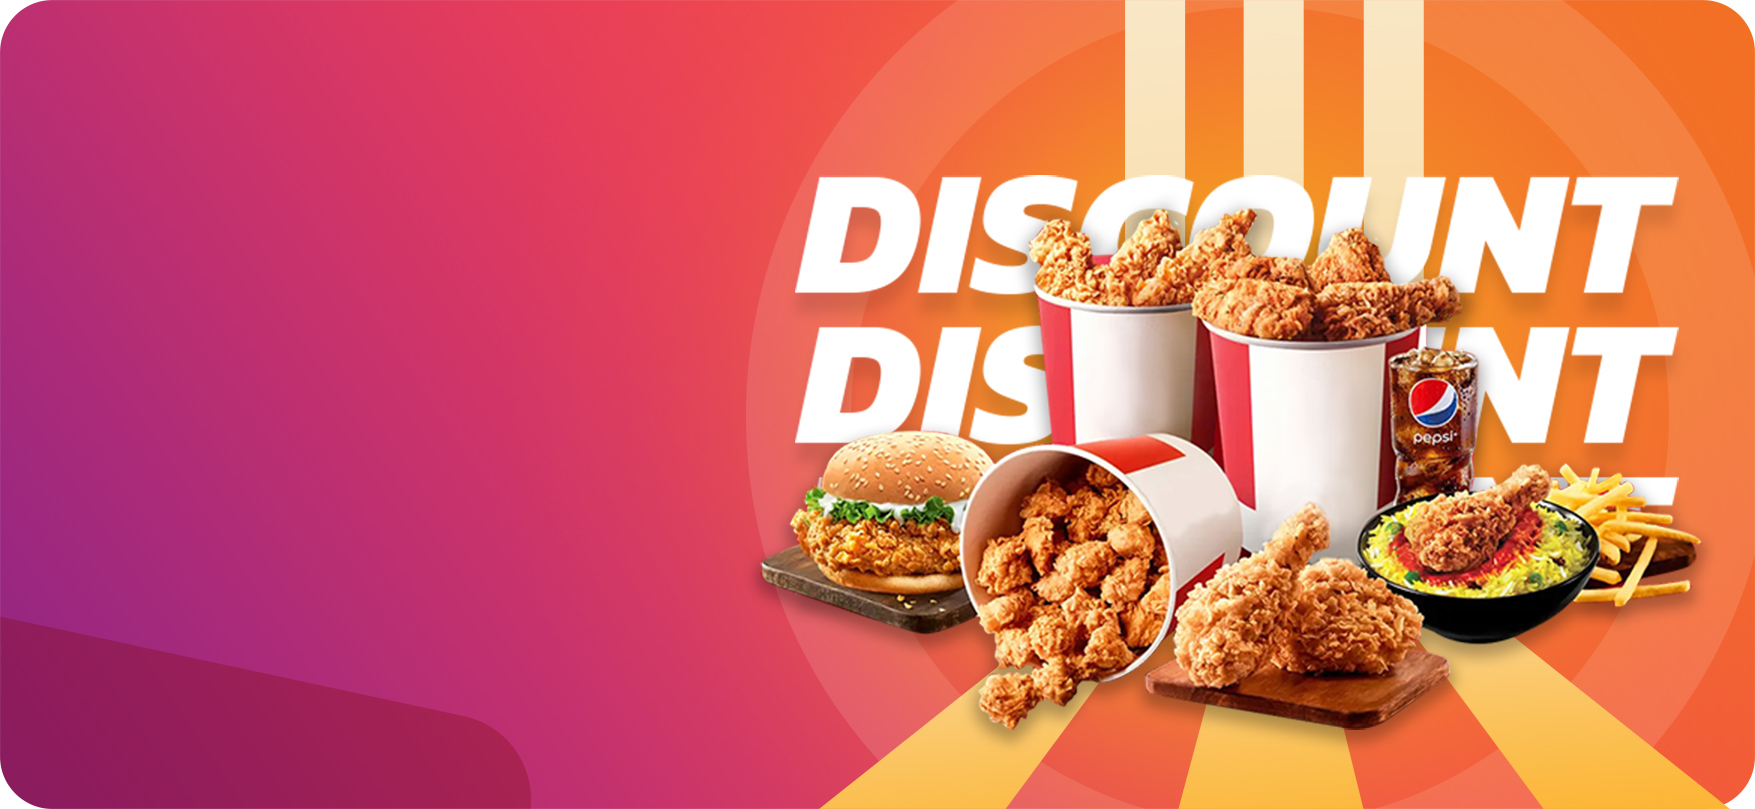
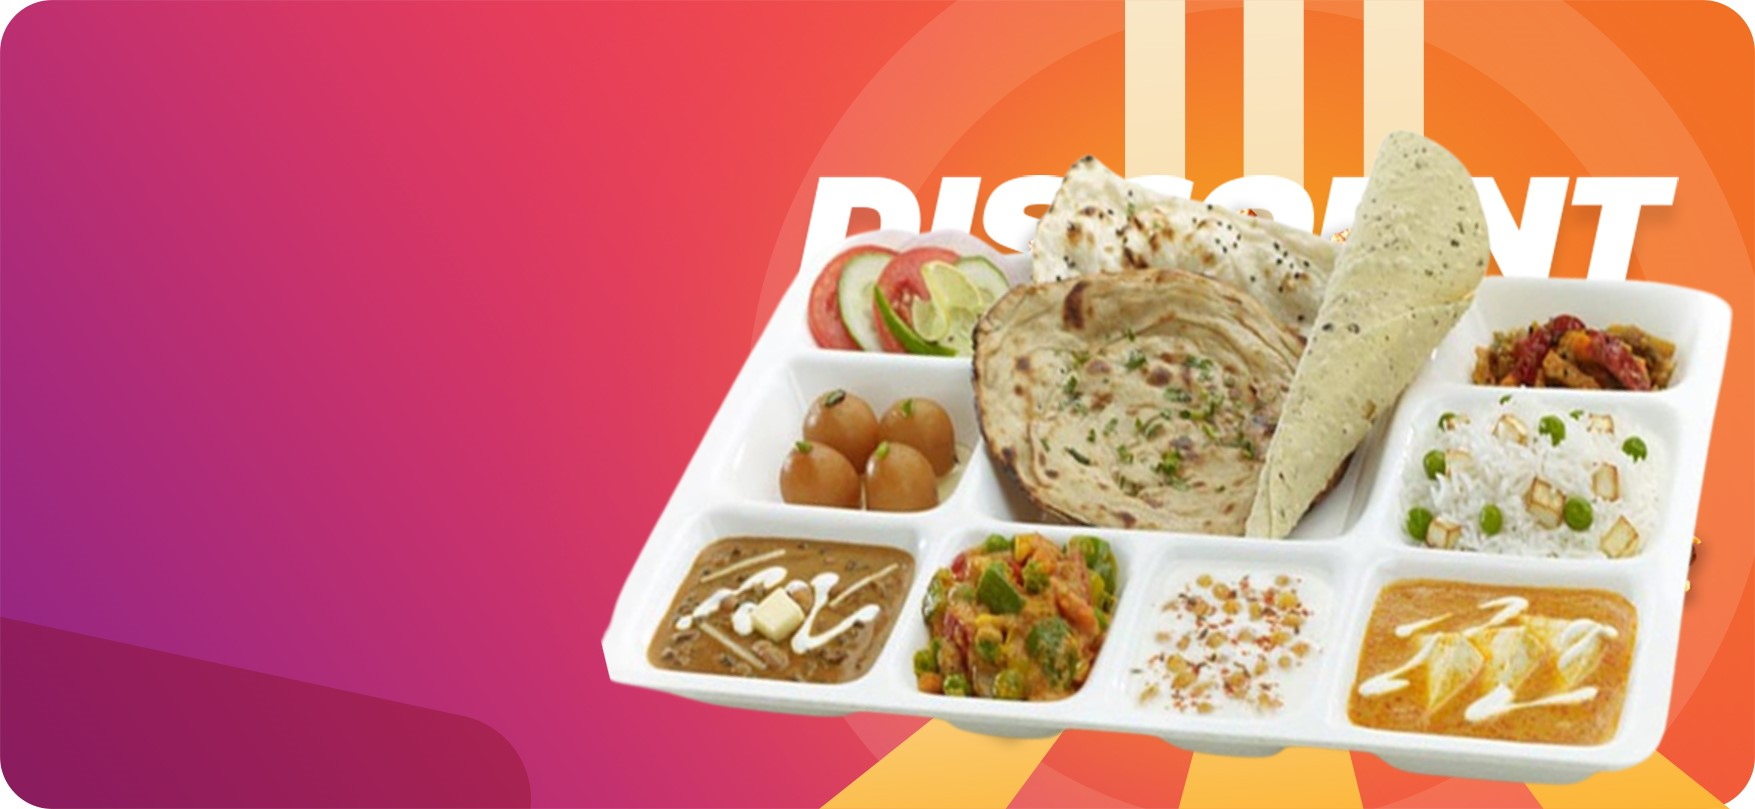
changes-4/2/25-18:38

diff --git a/src/components/(frontend)/basic-structure/Subscriptions.tsx b/src/components/(frontend)/basic-structure/Subscriptions.tsx
@@ -25,7 +25,7 @@ export default function Subscriptions() {
               <p className="sub-title">
                 eat freely without worrying about the price
               </p>
-              <h2 className="mb-0">Special Combo Offer</h2>
+              <h2 className="mb-0">Our Thalis</h2>
             </div>
           </div>
           <div className="col-md-4 wow fadeIn" data-wow-delay=".3s">
@@ -93,7 +93,7 @@ export default function Subscriptions() {
               <div className="swiper-wrapper">
                 <div className="swiper-slide">
                   <div className="product-item">
-                    <span className="price gradient">$20.25</span>
+                    <span className="price gradient">$260.00</span>
                     <div className="inner">
                       <div className="overlay">
                         <img src="assets/images/backgroup/bg-box.png" alt="" />
@@ -101,16 +101,16 @@ export default function Subscriptions() {
                       <div className="overlay-2"></div>
                       <div className="content">
                         <h5 className="title mb-20 color-3 pb-20 ic-botom text-spacing-0_5">
-                          <a href="#">Beef Burger Big Combo</a>
+                          <a href="#">Gujarati Tiffin Monthly</a>
                         </h5>
-                        <p className="desc">
-                          Duis sit amet libero volutpat, tempus augue quis,
-                          suscipit sapien. Phasellus a cursus enim.
-                        </p>
+
                         <ul>
-                          <li>A Large Size Beef Burger</li>
-                          <li>A Portion Of French Fries</li>
-                          <li>A Cup Of Cold Pepsi</li>
+                          <li>Veg Sabji (10Oz Bowl)</li>
+                          <li>Kathod (10Oz Bowl)</li>
+                          <li>Dal (10Oz Bowl)</li>
+                          <li>Rice (10Oz Bowl)</li>
+                          <li>Roti (5)</li>
+                          <li>Extra Roti (0.5$/ea)</li>
                         </ul>
                         <div className="flex">
                           <a href="order.html" className="tf-button">
@@ -119,14 +119,14 @@ export default function Subscriptions() {
                         </div>
                       </div>
                       <div className="image">
-                        <img src="assets/images/common/product-2.png" alt="" />
+                        <img src="assets/images/common/thali-1.png" alt="" />
                       </div>
                     </div>
                   </div>
                 </div>
                 <div className="swiper-slide">
                   <div className="product-item">
-                    <span className="price gradient">$14.50</span>
+                    <span className="price gradient">$70.00</span>
                     <div className="inner">
                       <div className="overlay">
                         <img src="assets/images/backgroup/bg-box.png" alt="" />
@@ -134,16 +134,16 @@ export default function Subscriptions() {
                       <div className="overlay-2"></div>
                       <div className="content">
                         <h5 className="title mb-20 color-3 pb-20 ic-botom text-spacing-0_5">
-                          <a href="#">Fried Chicken & Cake Combo</a>
+                          <a href="#">Gujarati Tiffin Weekly</a>
                         </h5>
-                        <p className="desc">
-                          Duis sit amet libero volutpat, tempus augue quis,
-                          suscipit sapien. Phasellus a cursus enim.
-                        </p>
+
                         <ul>
-                          <li>2 Pieces Of Fried Chicken</li>
-                          <li>A Baked Custard Pie</li>
-                          <li>A Cup Of Cold Pepsi</li>
+                          <li>Veg Sabji (10Oz Bowl)</li>
+                          <li>Kathod (10Oz Bowl)</li>
+                          <li>Dal (10Oz Bowl)</li>
+                          <li>Rice (10Oz Bowl)</li>
+                          <li>Roti (5)</li>
+                          <li>Extra Roti (0.5$/ea)</li>
                         </ul>
                         <div className="flex">
                           <a href="order.html" className="tf-button">
@@ -152,14 +152,14 @@ export default function Subscriptions() {
                         </div>
                       </div>
                       <div className="image">
-                        <img src="assets/images/common/product-1.png" alt="" />
+                        <img src="assets/images/common/thali-1.png" alt="" />
                       </div>
                     </div>
                   </div>
                 </div>
                 <div className="swiper-slide">
                   <div className="product-item">
-                    <span className="price gradient">$20.25</span>
+                    <span className="price gradient">$12.00</span>
                     <div className="inner">
                       <div className="overlay">
                         <img src="assets/images/backgroup/bg-box.png" alt="" />
@@ -167,16 +167,16 @@ export default function Subscriptions() {
                       <div className="overlay-2"></div>
                       <div className="content">
                         <h5 className="title mb-20 color-3 pb-20 ic-botom">
-                          <a href="#">Beef Burger Big Combo</a>
+                          <a href="#">Gujarati Tiffin Daily</a>
                         </h5>
-                        <p className="desc">
-                          Duis sit amet libero volutpat, tempus augue quis,
-                          suscipit sapien. Phasellus a cursus enim.
-                        </p>
+
                         <ul>
-                          <li>A Large Size Beef Burger</li>
-                          <li>A Portion Of French Fries</li>
-                          <li>A Cup Of Cold Pepsi</li>
+                          <li>Veg Sabji (10Oz Bowl)</li>
+                          <li>Kathod (10Oz Bowl)</li>
+                          <li>Dal (10Oz Bowl)</li>
+                          <li>Rice (10Oz Bowl)</li>
+                          <li>Roti (5)</li>
+                          <li>Extra Roti (0.5$/ea)</li>
                         </ul>
                         <div className="flex">
                           <a href="order.html" className="tf-button">
@@ -185,14 +185,14 @@ export default function Subscriptions() {
                         </div>
                       </div>
                       <div className="image">
-                        <img src="assets/images/common/product-2.png" alt="" />
+                        <img src="assets/images/common/thali-1.png" alt="" />
                       </div>
                     </div>
                   </div>
                 </div>
                 <div className="swiper-slide">
                   <div className="product-item">
-                    <span className="price gradient">$14.50</span>
+                    <span className="price gradient">$10.00</span>
                     <div className="inner">
                       <div className="overlay">
                         <img src="assets/images/backgroup/bg-box.png" alt="" />
@@ -200,16 +200,16 @@ export default function Subscriptions() {
                       <div className="overlay-2"></div>
                       <div className="content">
                         <h5 className="title mb-20 color-3 pb-20 ic-botom">
-                          <a href="#">Fried Chicken & Cake Combo</a>
+                          <a href="#">Gujarati Tiffin Take Away</a>
                         </h5>
-                        <p className="desc">
-                          Duis sit amet libero volutpat, tempus augue quis,
-                          suscipit sapien. Phasellus a cursus enim.
-                        </p>
+
                         <ul>
-                          <li>2 Pieces Of Fried Chicken</li>
-                          <li>A Baked Custard Pie</li>
-                          <li>A Cup Of Cold Pepsi</li>
+                          <li>Veg Sabji (10Oz Bowl)</li>
+                          <li>Kathod (10Oz Bowl)</li>
+                          <li>Dal (10Oz Bowl)</li>
+                          <li>Rice (10Oz Bowl)</li>
+                          <li>Roti (5)</li>
+                          <li>Extra Roti (0.5$/ea)</li>
                         </ul>
                         <div className="flex">
                           <a href="order.html" className="tf-button">
@@ -218,7 +218,7 @@ export default function Subscriptions() {
                         </div>
                       </div>
                       <div className="image">
-                        <img src="assets/images/common/product-1.png" alt="" />
+                        <img src="assets/images/common/thali-1.png" alt="" />
                       </div>
                     </div>
                   </div>

diff --git a/src/components/(frontend)/basic-structure/Footer.tsx b/src/components/(frontend)/basic-structure/Footer.tsx
@@ -18,7 +18,7 @@ export default function Footer() {
           <div className="col-md-12 wow fadeIn" data-wow-delay=".3s">
             <ul className="mt-35 footer-link flex justify-center">
               <li>
-                <a href="about.html">About Basilico</a>
+                <a href="about.html">About Spicebar</a>
               </li>
               <li>
                 <a href="order.html">Order Food</a>
@@ -53,16 +53,10 @@ export default function Footer() {
             </h5>
             <ul className="list center">
               <li>
-                <span>62 Big Tree St, Livonia, New York 14487, USA</span>
+                <span>817 Brimley Rd, Scarborough, ON M1J 1C9</span>
               </li>
               <li>
-                <span>themesflat@gmail.com</span>
-              </li>
-              <li>
-                <span>Terms and Conditions</span>
-              </li>
-              <li>
-                <span>Warranty and Services</span>
+                <span>spicebar143@gmail.com</span>
               </li>
             </ul>
           </div>
@@ -79,7 +73,7 @@ export default function Footer() {
               </li>
               <li>
                 <a className="call" href="tel:9103447520">
-                  910-344-7520
+                  +1 416-261-8480
                 </a>
               </li>
             </ul>
@@ -92,22 +86,22 @@ export default function Footer() {
 
           <div className="col-md-4 wow fadeIn" data-wow-delay=".5s">
             <h5 className="white uppercase mb-22 center text-spacing-1">
-              Hour time open
+              KITCHEN OPEN
             </h5>
             <ul className="list center mb-30">
               <li>
                 <span>
-                  Monday – Thursday: <span>8.00am – 21.00pm</span>
+                  Monday – Thursday: <span>2:00 PM - 1:00 AM</span>
                 </span>
               </li>
               <li>
                 <span>
-                  Friday – Saturday : <span>9.00am – 22.00pm</span>
+                  Friday – Saturday : <span>2:00 PM - 2:00 AM</span>
                 </span>
               </li>
               <li>
                 <span>
-                  Sunday: <span>8.00 – 23.00pm</span>
+                  Sunday: <span>2:00 PM - 2:00 AM</span>
                 </span>
               </li>
               <li>
@@ -159,8 +153,8 @@ export default function Footer() {
           <div className="col-md-12">
             <div className="footer-bottom flex items-center">
               <p className="copyright">
-                © Copyright <a href="#">Themesflat</a> 2023. All Rights
-                Reserved.
+                © Copyright <a href="#">Spicebar</a> 2025. All Rights Reserved.
+                Created By: <a href="https://ignitax.com">IGNITAX</a>
               </p>
               <div className="payment-methods">
                 <a className="flex image" href="#">

diff --git a/src/components/(frontend)/basic-structure/Categories.tsx b/src/components/(frontend)/basic-structure/Categories.tsx
@@ -70,13 +70,13 @@ export default function Categories() {
               <div className="image">
                 <img src="assets/images/common/item_2.jpg" alt="" />
                 <img
-                  src="assets/images/common/item-02.png"
+                  src="assets/images/common/pani-puri-1.png"
                   alt=""
                   className="item-1"
                 />
               </div>
               <div className="content">
-                <h4 className="title mb-12">Fried Chicken.</h4>
+                <h4 className="title mb-12">Pani Puri.</h4>
                 <p className="white">
                   Lorem ipsum dolor sit amet, consectetur adipiscing elit. Ut
                   elit tellus, luctus nec ullamcorper mattis.
@@ -115,13 +115,13 @@ export default function Categories() {
               <div className="image">
                 <img src="assets/images/common/item_3.jpg" alt="" />
                 <img
-                  src="assets/images/common/item-03.png"
+                  src="assets/images/common/punjabi-1.png"
                   alt=""
                   className="item-1"
                 />
               </div>
               <div className="content">
-                <h4 className="title mb-12">Appetizer.</h4>
+                <h4 className="title mb-12">Punjabi.</h4>
                 <p className="white">
                   Lorem ipsum dolor sit amet, consectetur adipiscing elit. Ut
                   elit tellus, luctus nec ullamcorper mattis.

diff --git a/src/components/(frontend)/basic-structure/About.tsx b/src/components/(frontend)/basic-structure/About.tsx
@@ -20,7 +20,7 @@ export default function About() {
                 alt=""
               />
               <div className="image wow fadeInLeft" data-wow-delay=".3s">
-                <img src="assets/images/common/item_11.jpg" alt="" />
+                <img src="assets/images/common/about-1.png" alt="" />
               </div>
               <div className="content wow fadeIn" data-wow-delay=".5s">
                 <h2 className="mb-24 color-3 text-spacing-1">
@@ -137,20 +137,6 @@ export default function About() {
                     <span>Club connect members</span>
                   </li>
                 </ul>
-                <div className="wrap-button flex-wrap">
-                  <a
-                    href="about.html"
-                    className="tf-button flex items-center mr-15 mb-10"
-                  >
-                    READ MORE ABOUT US
-                  </a>
-                  <a
-                    href="book-table.html"
-                    className="tf-button style2 flex items-center"
-                  >
-                    book a table
-                  </a>
-                </div>
               </div>
             </div>
           </div>

diff --git a/src/components/(frontend)/basic-structure/Slider.tsx b/src/components/(frontend)/basic-structure/Slider.tsx
@@ -67,7 +67,7 @@ export default function Slider() {
                     </div>
                     <div className="content">
                       <p className="mb-14 uppercase white font_600">
-                        Crazy Beefy Burgers
+                        Punjabi Tiffin
                       </p>
                       <h2 className="capitalize mb-40">
                         Up To 20% <br className="show-desktop" />
@@ -88,11 +88,11 @@ export default function Slider() {
                     </div>
                     <div className="content">
                       <p className="mb-14 uppercase white font_600">
-                        Crazy Beefy Burgers
+                        Punjabi Thali
                       </p>
                       <h2 className="capitalize mb-40">
                         Quality Ingredients. <br className="show-desktop" />
-                        Quality Burgers.
+                        Quality Dishes.
                       </h2>
                       <div className="flex">
                         <a href="shop-details.html" className="tf-button">

diff --git a/src/components/(frontend)/basic-structure/Topbar.tsx b/src/components/(frontend)/basic-structure/Topbar.tsx
@@ -1,4 +1,5 @@
 import React from "react";
+import Link from "next/link";
 
 export default function Topbar() {
   return (
@@ -8,9 +9,9 @@ export default function Topbar() {
           <div className="col-md-12 wow fadeIn" data-wow-delay=".3s">
             <div className="topbar-inner flex">
               <div className="topbar__logo mt3">
-                <a href="home-01.html">
+                <Link href="/">
                   <img src="assets/images/logo/logo.png" alt="" />
-                </a>
+                </Link>
               </div>
 
               <div className="topbar-info">
@@ -21,7 +22,7 @@ export default function Topbar() {
                   <ul className="phone">
                     <li>
                       <p>Call and Order in</p>
-                      <p>910-344-7520</p>
+                      <p>+1 416-261-8480</p>
                     </li>
                   </ul>
                 </div>
